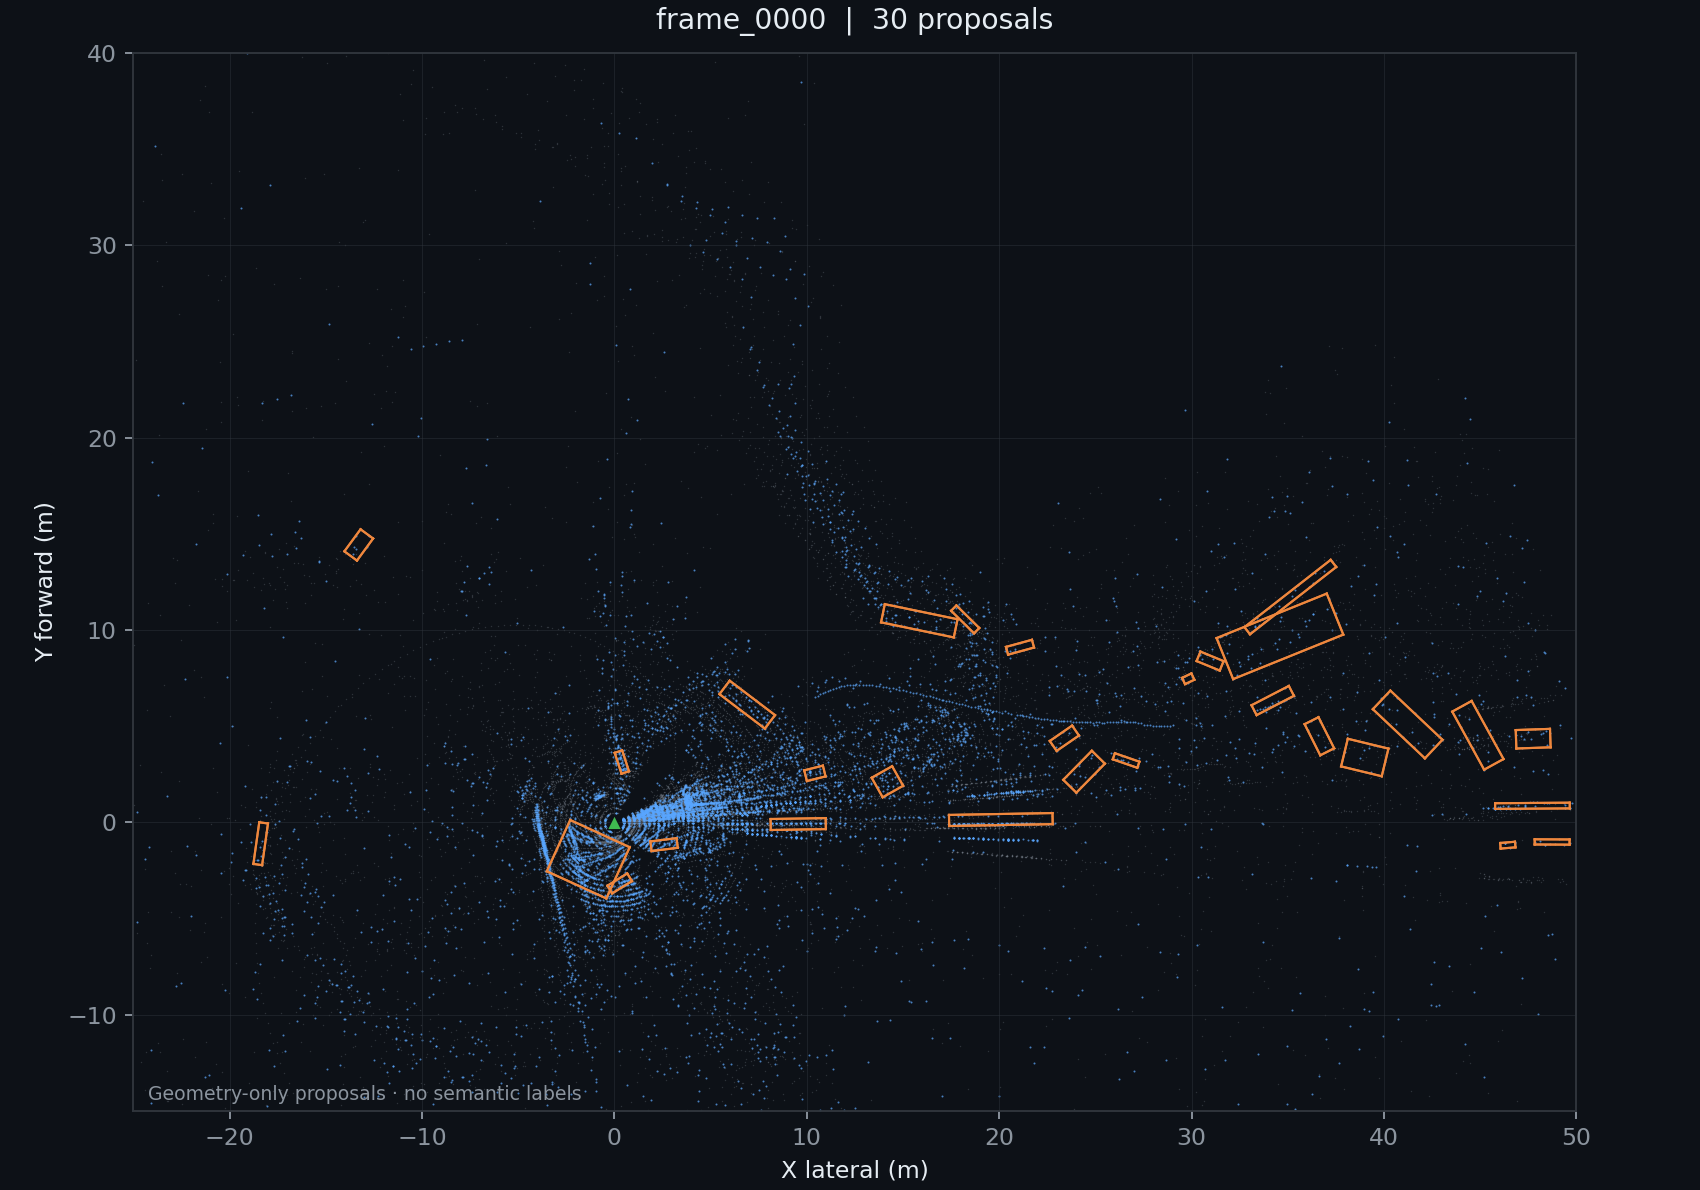
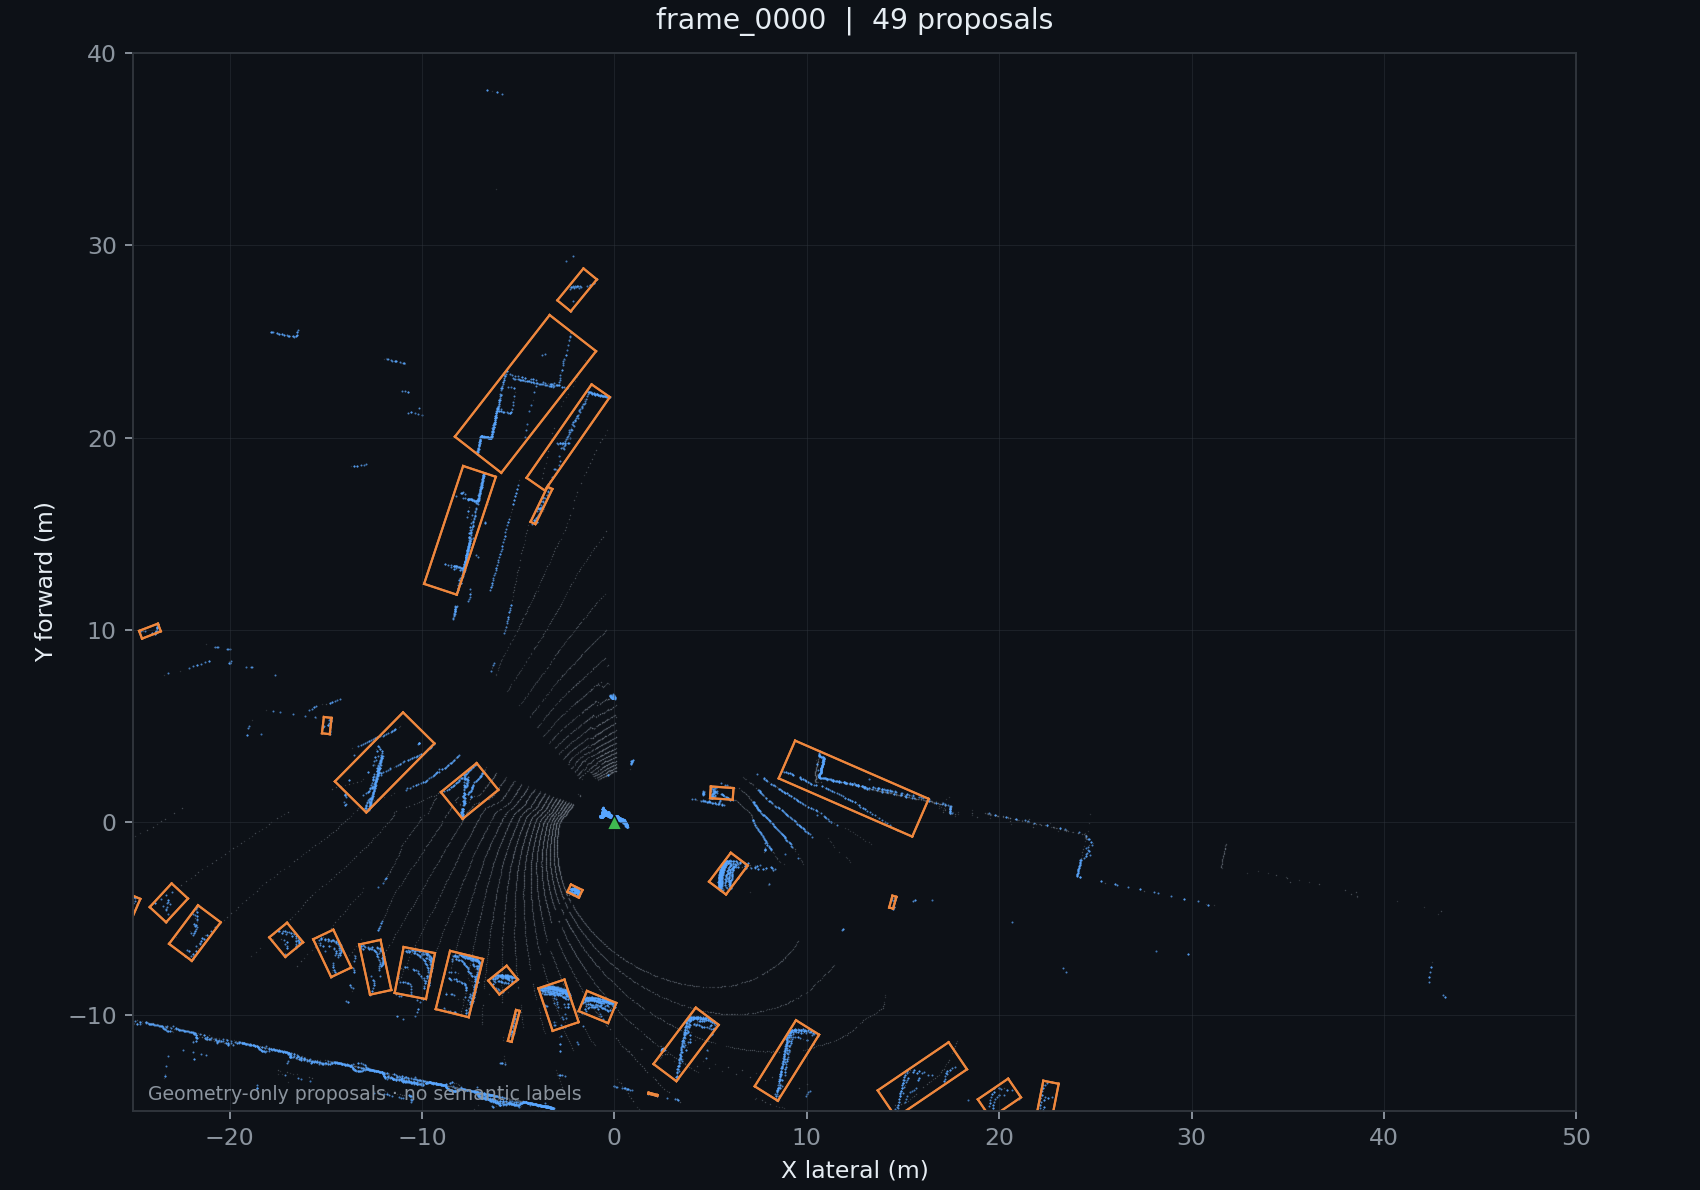
fix: regenerate demos from corrected XT32 frames

diff --git a/scripts/render_detection_assets.py b/scripts/render_detection_assets.py
@@ -177,6 +177,10 @@ def parse_args():
     )
     parser.add_argument("--x-limits", nargs=2, type=float, default=(-25.0, 50.0))
     parser.add_argument("--y-limits", nargs=2, type=float, default=(-15.0, 40.0))
+    parser.add_argument(
+        "--source-series",
+        help="optional source directory label recorded in summary.json",
+    )
     return parser.parse_args()
 
 
@@ -189,15 +193,16 @@ def main():
     for result in results:
         output = args.output_dir / f'{result["name"]}.png'
         render_individual(result, output, args.x_limits, args.y_limits)
-        summary.append(
-            {
-                "frame": result["name"],
-                "environment_points": len(result["environment"]),
-                "non_ground_roi_points": len(result["roi"]),
-                "proposal_count": len(result["detections"]),
-                "asset": output.name,
-            }
-        )
+        record = {
+            "frame": result["name"],
+            "environment_points": len(result["environment"]),
+            "non_ground_roi_points": len(result["roi"]),
+            "proposal_count": len(result["detections"]),
+            "asset": output.name,
+        }
+        if args.source_series:
+            record["input"] = f"{args.source_series}/{result['name']}.bin"
+        summary.append(record)
         print(f"Saved {output}")
 
     if len(results) == 4:
@@ -206,7 +211,7 @@ def main():
         print(f"Saved {grid_output}")
 
     summary_path = args.output_dir / "summary.json"
-    with summary_path.open("w", encoding="utf-8") as handle:
+    with summary_path.open("w", encoding="utf-8", newline="\n") as handle:
         json.dump(summary, handle, indent=2)
         handle.write("\n")
     print(f"Saved {summary_path}")

diff --git a/docs/RESULTS.md b/docs/RESULTS.md
@@ -2,16 +2,16 @@
 
 ## Scope
 
-These assets were produced from four real PandarXT32 frames with the same maintained detector and the same parameter set. They demonstrate repeatability of the processing path; they are not an accuracy benchmark because the capture has no ground-truth 3D boxes.
+These assets were produced from four real PandarXT32 frames in the corrected `frames_bin_xt32` series, using the same maintained detector and the same parameter set. They demonstrate repeatability of the processing path; they are not an accuracy benchmark because the capture has no ground-truth 3D boxes.
 
 ![Four-frame detection overview](assets/demo/detection-demo-grid.png)
 
 | Frame | Aligned environment points | Non-ground ROI points | Geometric proposals |
 |---|---:|---:|---:|
-| `frame_0000` | 30,964 | 8,732 | 30 |
-| `frame_0001` | 32,654 | 10,546 | 33 |
-| `frame_0020` | 33,062 | 9,786 | 36 |
-| `frame_0100` | 40,997 | 10,332 | 25 |
+| `frame_0000` | 45,849 | 28,047 | 49 |
+| `frame_0001` | 48,125 | 16,791 | 18 |
+| `frame_0020` | 51,368 | 16,854 | 11 |
+| `frame_0100` | 49,971 | 30,497 | 62 |
 
 Individual bird's-eye-view frames:
 
@@ -33,7 +33,8 @@ python scripts\render_detection_assets.py `
   path\to\frame_0000 `
   path\to\frame_0001 `
   path\to\frame_0020 `
-  path\to\frame_0100
+  path\to\frame_0100 `
+  --source-series frames_bin_xt32
 ```
 
 The underlying PCAP and BIN data are intentionally excluded because of size. The PNG files and [summary.json](assets/demo/summary.json) provide a compact, traceable record of these runs.
